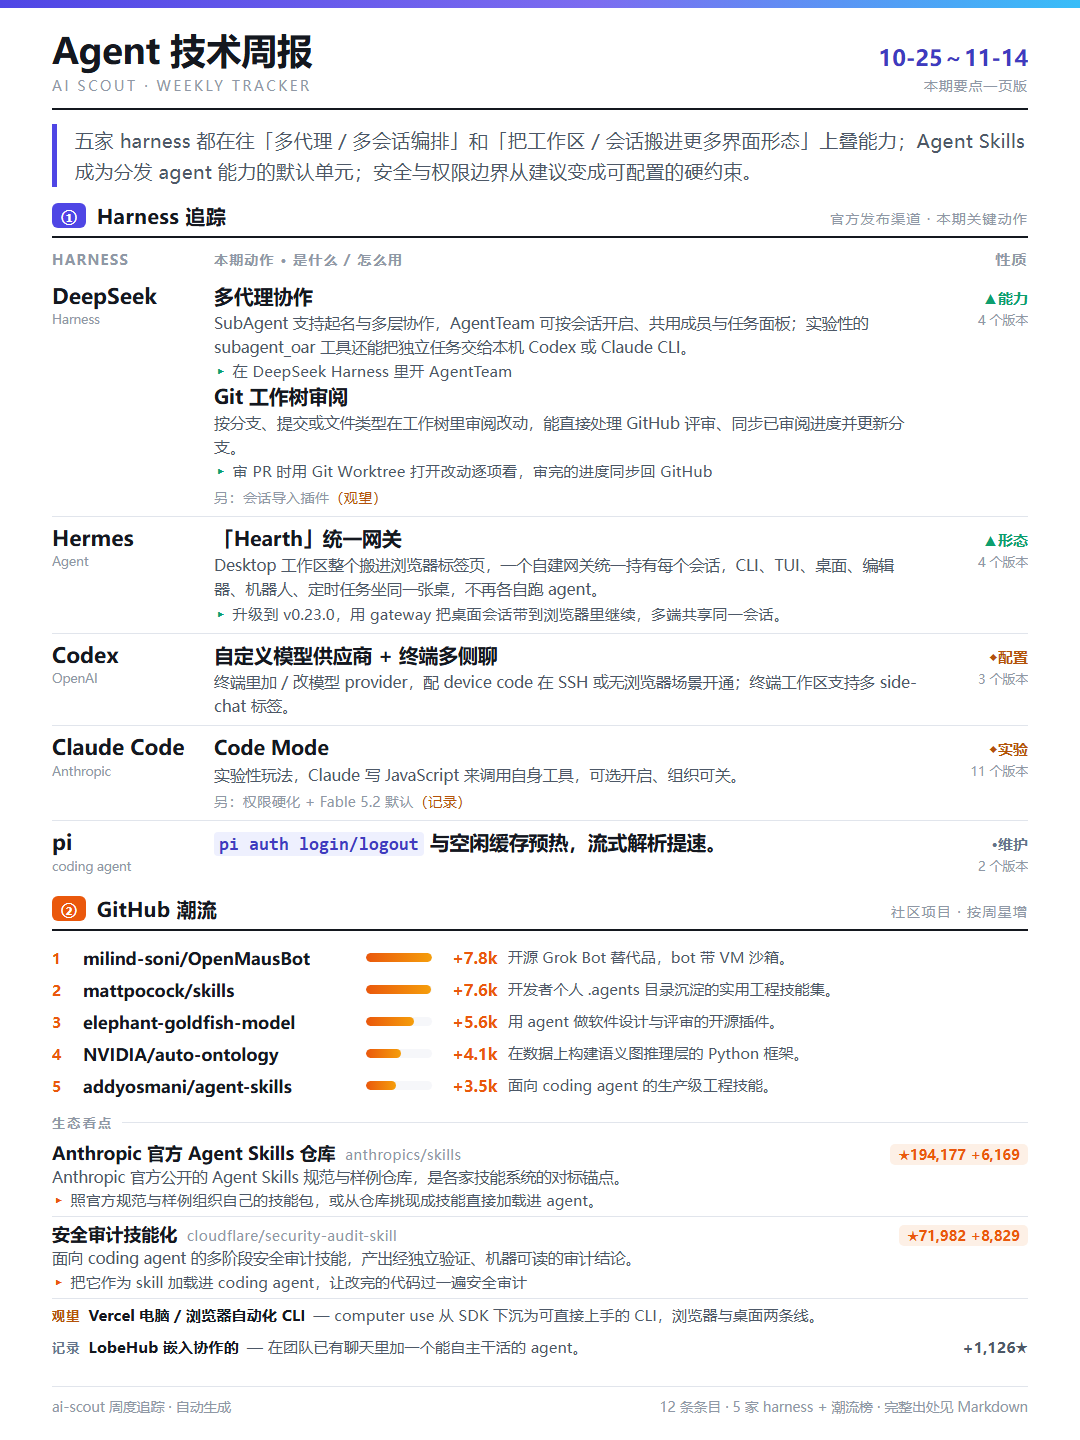
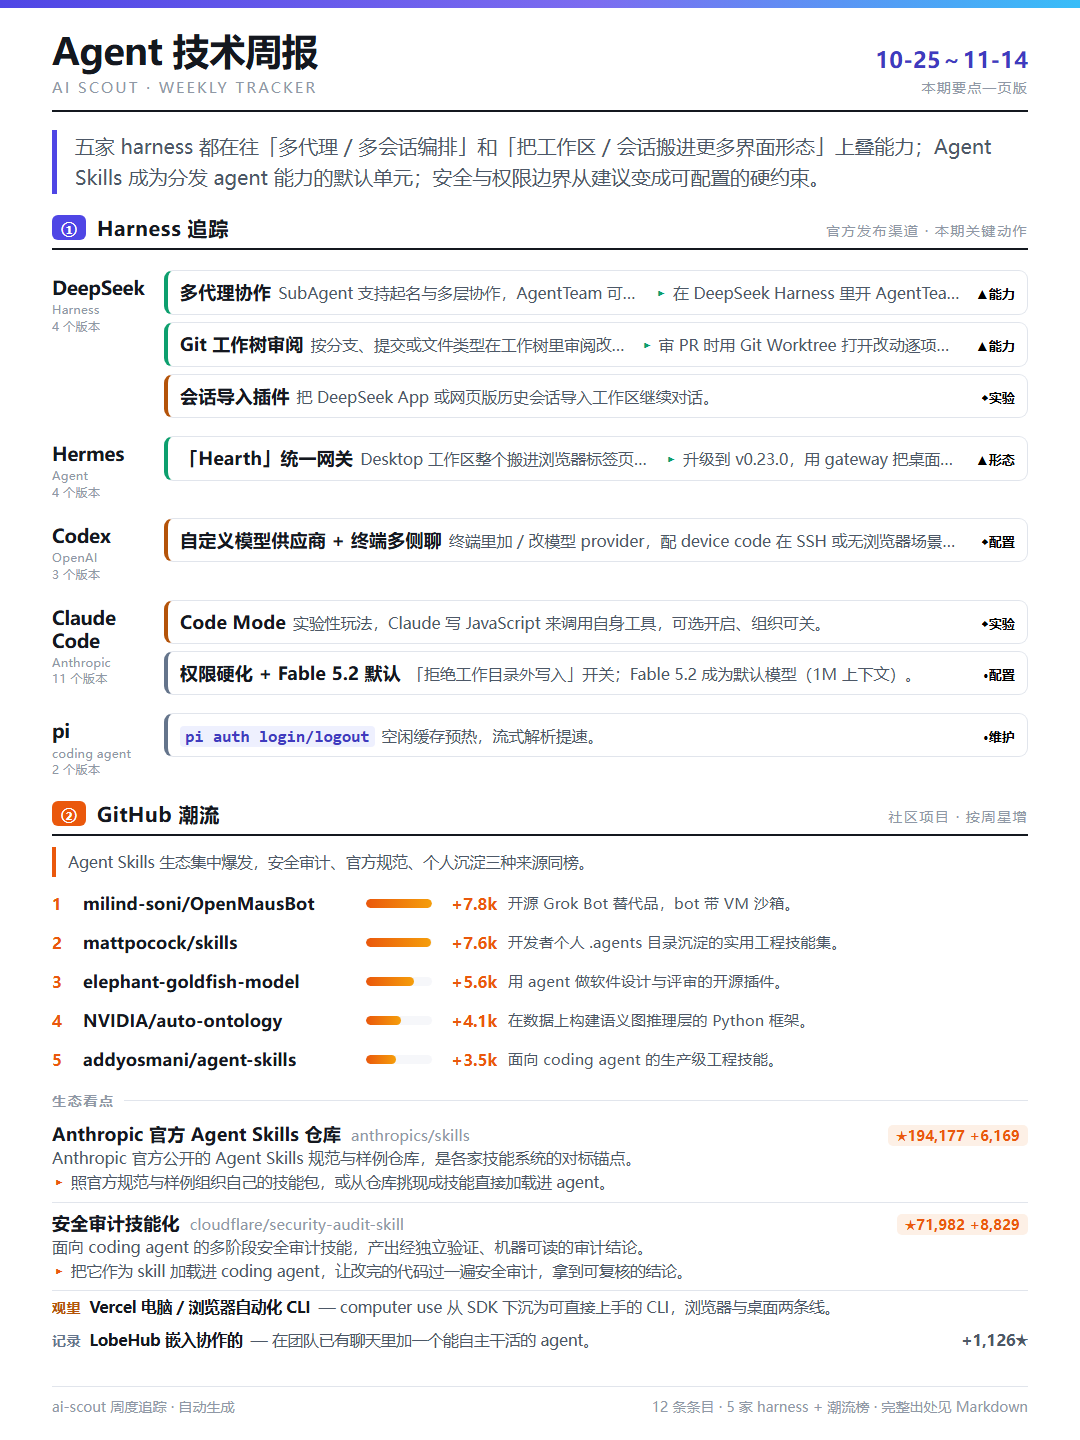
feat(render): Harness 板改单行卡片（家名分组一次 + 实测宽度自适应裁剪），新增潮流风向导语

diff --git a/dsh-plugin/scripts/brief-onepage.css b/dsh-plugin/scripts/brief-onepage.css
@@ -58,7 +58,7 @@ body {
 
 /* ── 本期大盘 ── */
 .hero {
-  margin: 14px 0 16px;
+  margin: 18px 0 20px;
   padding: 1px 0 1px 18px;
   border-left: 5px solid var(--accent);
   font-size: 1.24rem;
@@ -93,46 +93,56 @@ body {
 .board-note { margin-left: auto; font-size: 0.9rem; letter-spacing: 0.08em; color: var(--faint); }
 .board-trend .board-no { background: var(--hot); }
 
-/* ── ① Harness 矩阵行 ── */
-.m-head, .m-row {
+/* ── ① Harness 追踪：按家分组的单行卡片（家名只在组头出现一次）── */
+.hgroup {
   display: grid;
-  grid-template-columns: 146px 1fr 92px;
-  gap: 16px;
+  grid-template-columns: 100px 1fr;
+  gap: 12px;
+  padding: 9px 0;
+}
+.hg-label { padding-top: 7px; }
+.hg-label b { display: block; font-size: 1.18rem; font-weight: 800; line-height: 1.2; color: var(--ink); letter-spacing: -0.2px; }
+.hg-label span { display: block; margin-top: 2px; font-size: 0.78rem; font-weight: 500; line-height: 1.3; color: var(--faint); }
+.hg-cards { display: flex; flex-direction: column; gap: 7px; min-width: 0; }
+/* 一行卡片：动作 · 是什么 ▸ 怎么用 [性质] */
+.hcard {
+  display: flex;
   align-items: baseline;
+  gap: 7px;
+  padding: 9px 12px;
+  border: 1px solid var(--rule);
+  border-left: 4px solid var(--go);
+  border-radius: 9px;
+  background: #fff;
+  white-space: nowrap;
+  overflow: hidden;
 }
-.m-head {
-  padding-bottom: 6px;
-  font-size: 0.88rem;
-  font-weight: 600;
-  letter-spacing: 0.1em;
-  color: var(--faint);
-  text-transform: uppercase;
-}
-.m-head .m-nature { text-align: right; }
-.m-row { padding: 8px 0; border-bottom: 1px solid var(--rule); }
-.m-row:last-child { border-bottom: none; }
-.m-name { font-size: 1.36rem; font-weight: 800; line-height: 1.25; color: var(--ink); letter-spacing: -0.2px; }
-.m-name span { display: block; margin-top: 2px; font-size: 0.82rem; font-weight: 500; color: var(--faint); }
-.m-act { font-size: 1.26rem; font-weight: 700; line-height: 1.35; color: var(--ink); }
-.m-act + .m-act { margin-top: 8px; }
-.m-what { margin-top: 2px; font-size: 1rem; line-height: 1.5; color: var(--muted); }
-.m-how { display: block; margin-top: 2px; font-size: 0.98rem; line-height: 1.45; color: var(--muted); }
-.m-how::before { content: "▸ "; color: var(--go); font-weight: 700; }
-.m-sib { margin-top: 5px; font-size: 0.92rem; line-height: 1.4; color: var(--faint); }
-.m-sib em { font-style: normal; color: var(--watch); }
-.m-nature { text-align: right; font-size: 0.96rem; font-weight: 700; white-space: nowrap; }
-.n-go { color: var(--go); }
-.n-watch { color: var(--watch); }
-.n-log { color: var(--log); }
-.n-note { display: block; margin-top: 3px; font-size: 0.82rem; font-weight: 500; color: var(--faint); }
+.hc-watch { border-left-color: var(--watch); }
+.hc-log { border-left-color: var(--log); }
+.hc-act { flex: 0 0 auto; font-size: 1.14rem; font-weight: 700; color: var(--ink); }
+.hc-what { flex: 0 0 auto; min-width: 0; overflow: hidden; text-overflow: ellipsis; font-size: 0.99rem; color: var(--muted); }
+.hc-how { flex: 0 0 auto; min-width: 0; overflow: hidden; text-overflow: ellipsis; font-size: 0.99rem; color: var(--muted); }
+.hc-how::before { content: "▸ "; color: var(--go); font-weight: 700; }
+.hc-watch .hc-how::before { color: var(--watch); }
+.hc-log .hc-how::before { color: var(--log); }
+.hc-nat { flex: 0 0 auto; margin-left: auto; font-size: 0.82rem; font-weight: 700; }
 
+/* ── ② 潮流：本周风向导语 ── */
+.t-wind {
+  margin: 0 0 7px;
+  padding: 4px 0 4px 12px;
+  border-left: 4px solid var(--hot);
+  font-size: 0.97rem;
+  line-height: 1.45;
+  color: var(--muted);
+}
 /* ── ② 潮流：星增主榜 ── */
 .h-row {
   display: grid;
   grid-template-columns: 20px 272px 66px 54px 1fr;
   gap: 11px;
   align-items: center;
-  padding: 5px 0;
+  padding: 8px 0;
 }
 .h-rank { font-size: 0.98rem; font-weight: 800; color: var(--hot); }
 .h-repo { font-size: 1.08rem; font-weight: 700; color: var(--ink); overflow: hidden; text-overflow: ellipsis; white-space: nowrap; }
@@ -154,7 +164,7 @@ body {
   text-transform: uppercase;
 }
 .t-label::after { content: ""; flex: 1; height: 1px; background: var(--rule); }
-.t-row { padding: 5px 0; border-bottom: 1px solid var(--rule); }
+.t-row { padding: 8px 0; border-bottom: 1px solid var(--rule); }
 .t-row:last-child { border-bottom: none; }
 .t-h { display: flex; align-items: baseline; gap: 10px; }
 .t-name { font-size: 1.14rem; font-weight: 700; color: var(--ink); }
